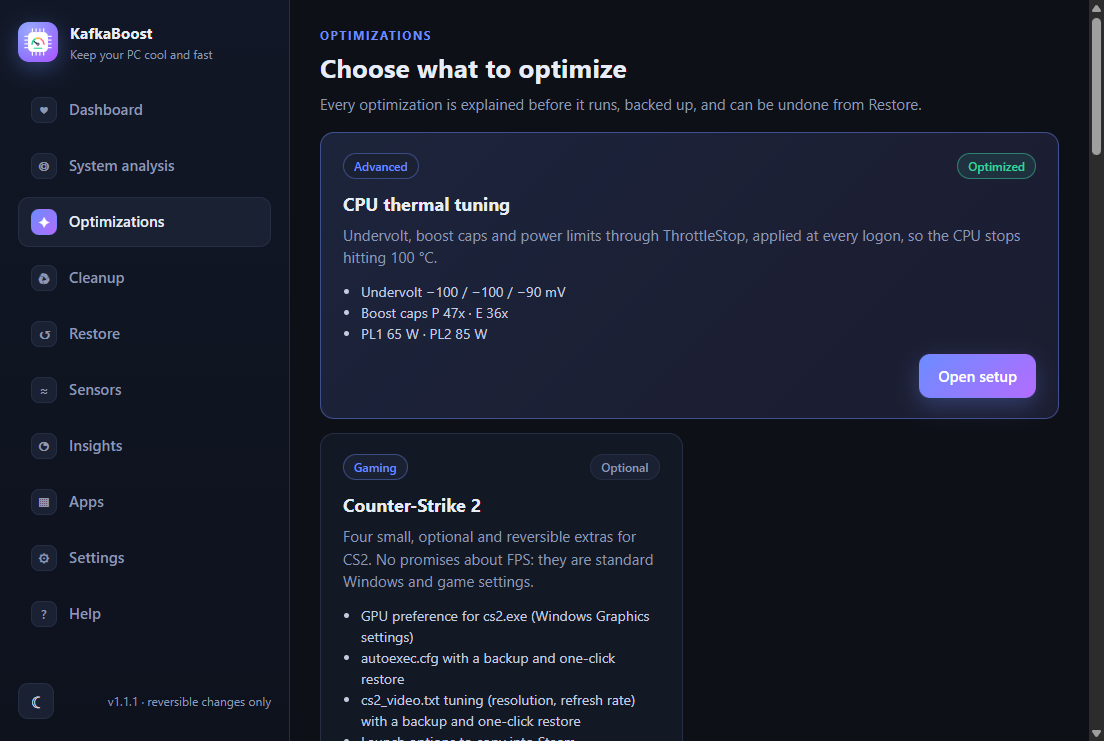
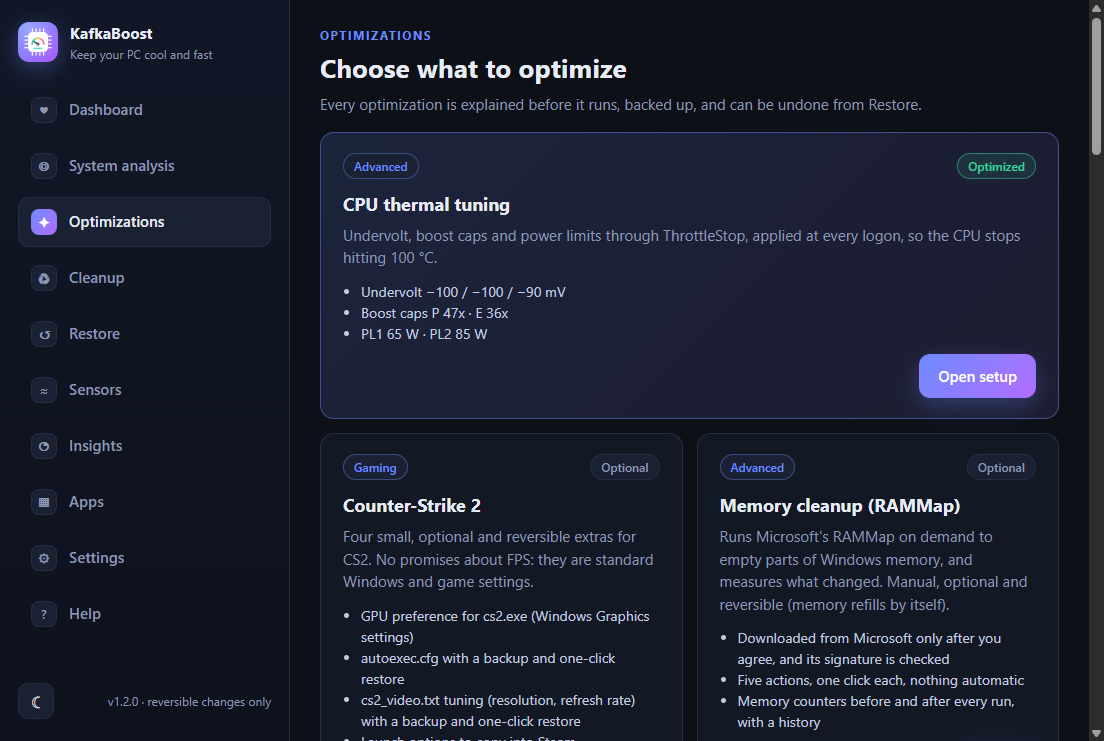
docs: regenerate the screenshots and add the Memory cleanup (RAMMap) page
The step list now sits under Optimizations and the page has a RAMMap card, so every shot is regenerated in demo mode. tools/shots.js takes two new shots, rammap.png (before the download) and rammap-run.png (after a demo install and one action, with the history).

Changed region(s): [[0.6467, 0.5897, 0.9239, 0.9933], [0.8623, 0.5897, 0.9547, 0.6518], [0.8931, 0.9933, 0.9239, 1.0]]

diff --git a/tools/shots.js b/tools/shots.js
@@ -62,6 +62,12 @@ async function run({ win, dir, shot, js, sleep, demo, settings, PLATFORM }) {
     await js(win, "document.getElementById('cs2Cfg').scrollIntoView({ block: 'start' }); 0"); await sleep(500); await shot(win, out('cs2-options'));
     await js(win, "document.getElementById('cs2Launch').scrollIntoView({ block: 'start' }); 0"); await sleep(500); await shot(win, out('cs2-launch'));
     demo.resetCs2();
+    // Memory cleanup (RAMMap): first the page before RAMMap is downloaded, then after a demo install and one action with its history
+    await click('[data-view=optimizations]'); await sleep(900); await click('#openRammap'); await until("!document.getElementById('rammap').hidden && !document.getElementById('rammapGet').hidden"); await sleep(500);
+    await js(win, "document.querySelector('.main').scrollTop = 0; 0"); await sleep(300); await shot(win, out('rammap'));
+    await click('#rammapAgree'); await sleep(200); await click('#rammapDownload'); await until("!document.getElementById('rammapActionsCard').hidden"); await sleep(500);
+    await js(win, "document.querySelectorAll('#rammapActions .rammap-row .btn')[4].click(); 0"); await sleep(500); await click('#cfOk'); await until("!document.getElementById('rammapHistoryCard').hidden"); await sleep(600);
+    await js(win, "document.getElementById('rammapActionsCard').scrollIntoView({ block: 'start' }); 0"); await sleep(500); await shot(win, out('rammap-run'));
     await click('[data-view=cleanup]'); await sleep(1500); await shot(win, out('cleanup'));
     await click('[data-view=apps]'); for (let i = 0; i < 50 && (await js(win, "document.getElementById('apps').hidden")); i++) await sleep(100); await sleep(2200); await shot(win, out('apps'));
     demo.state.sensorsInstalled = true;          // the consent card is covered by the UI test; the shot shows the live cards
